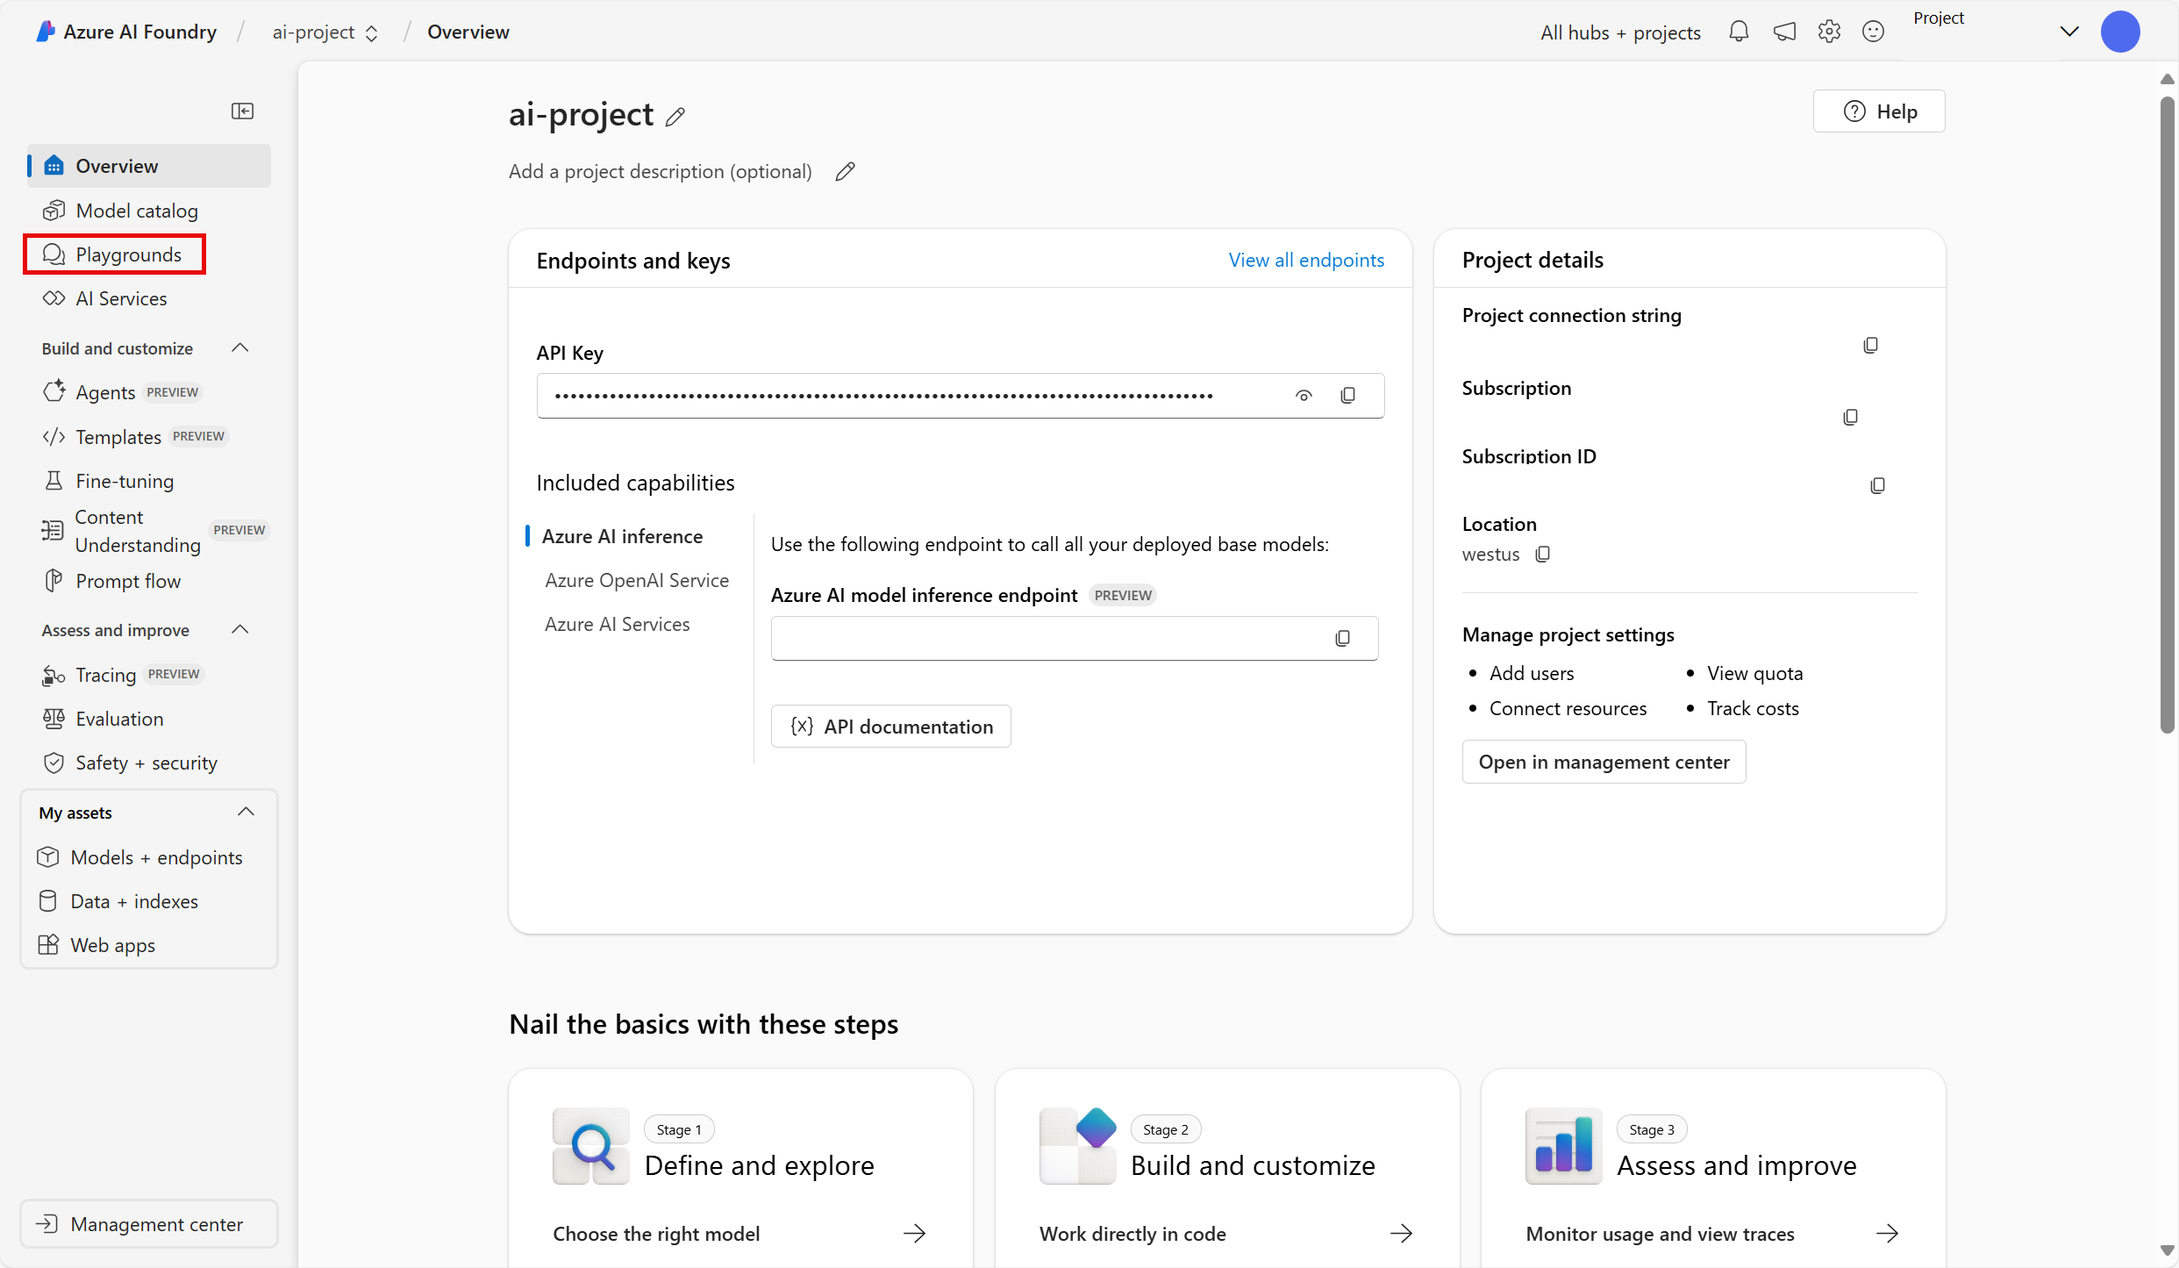
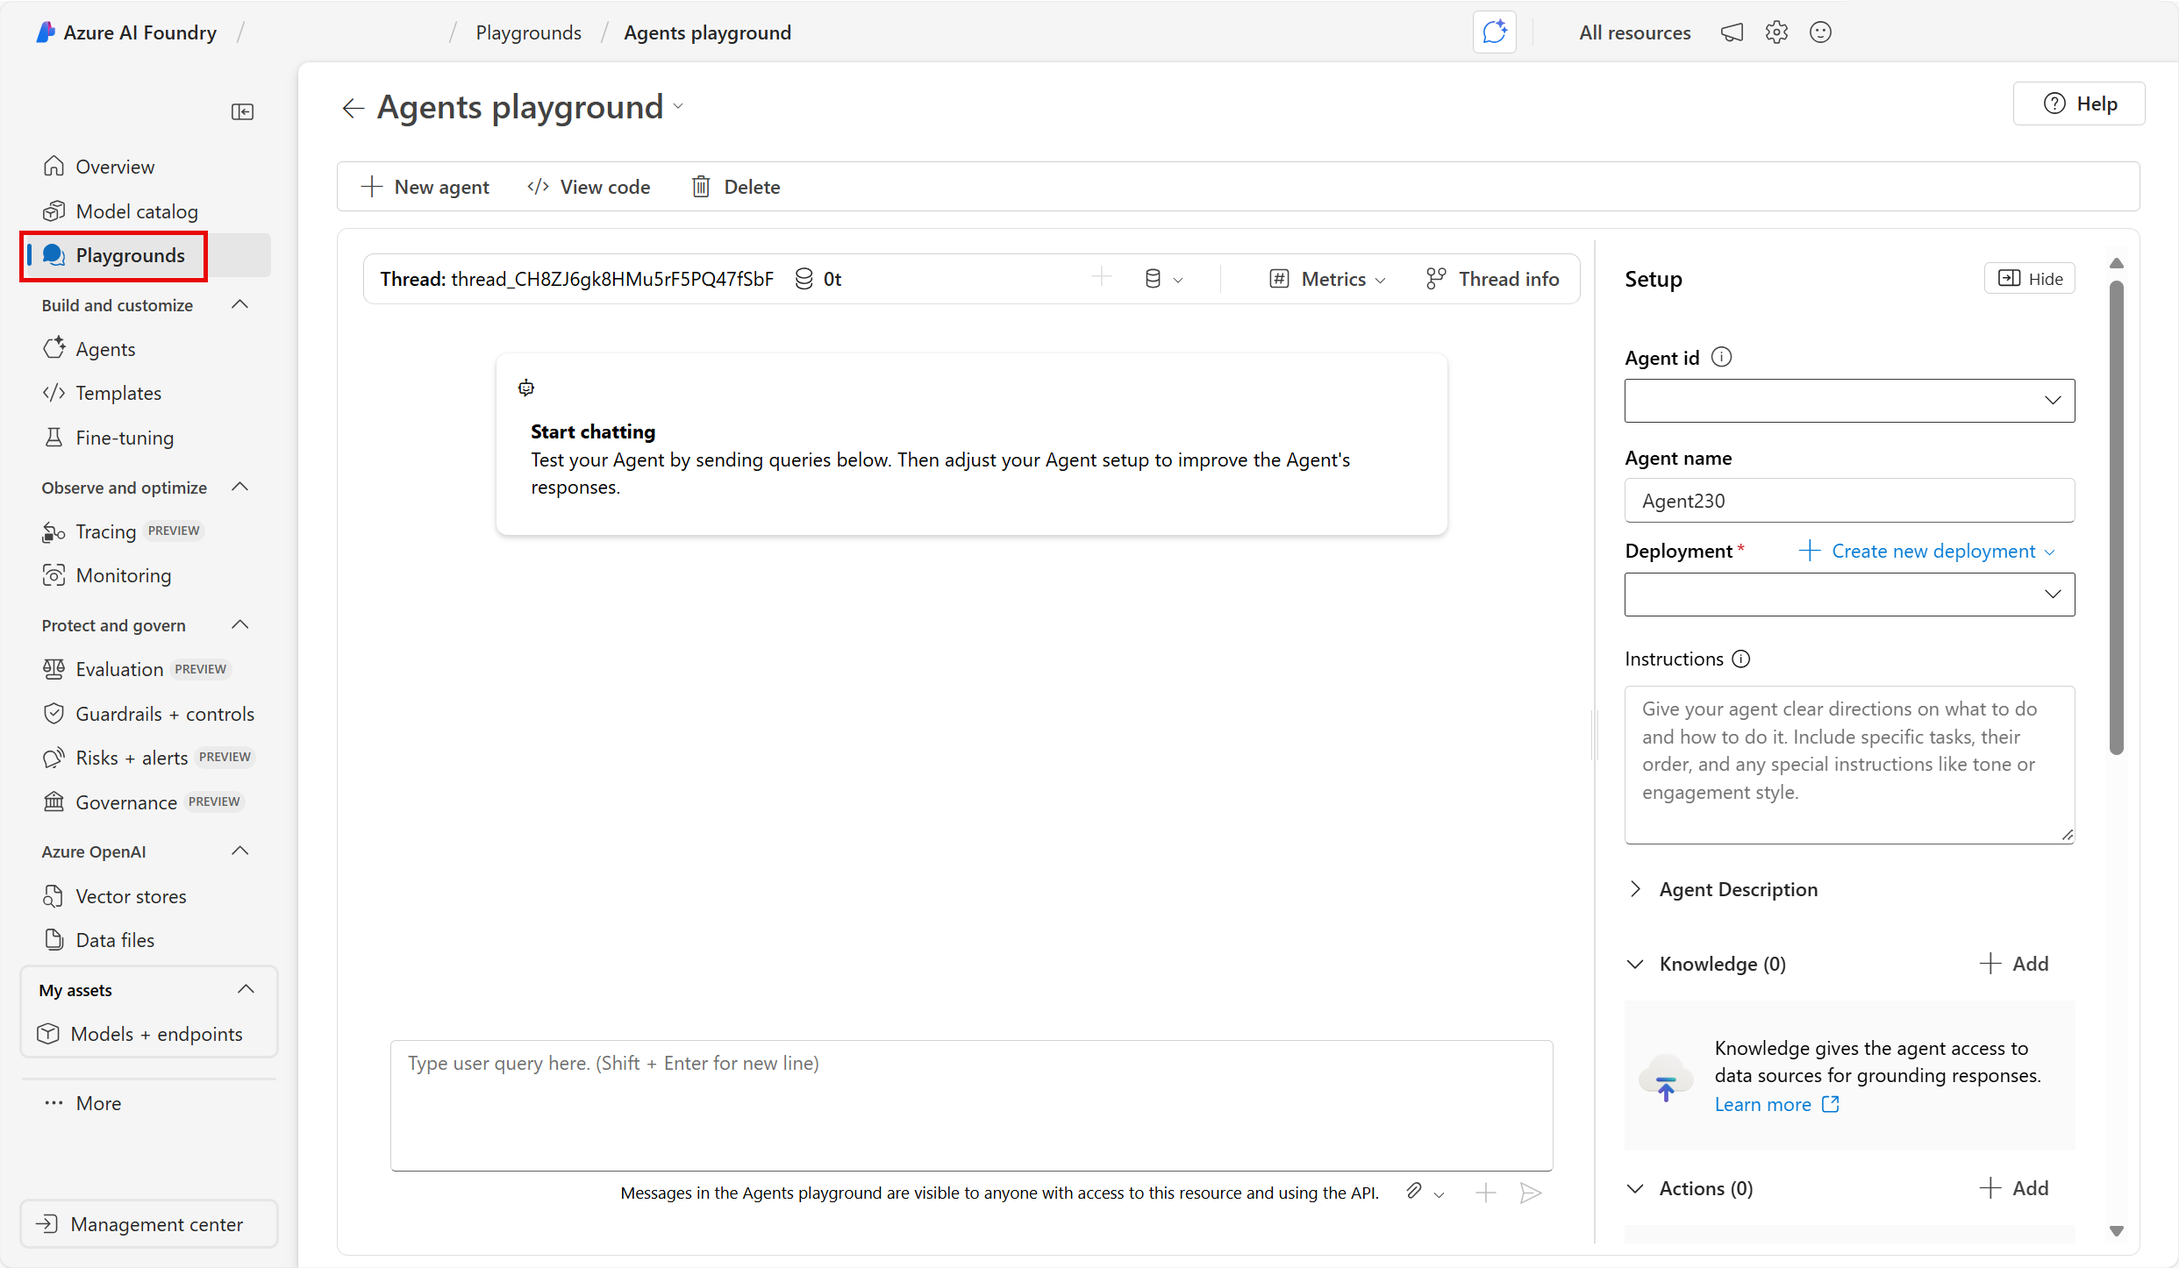
Update exercises folder to new foundry interface.

diff --git a/Instructions/Exercises/06-content-understanding.md b/Instructions/Exercises/06-content-understanding.md
@@ -11,51 +11,47 @@ In this exercise, you will use Azure AI Content Understanding in Azure AI Foundr
 
 This exercise takes approximately **25** minutes.
 
-## Create an Azure AI Foundry project
-
-Let's start by creating an Azure AI Foundry project.
+## Create an Azure AI Foundry project and content understanding task
 
 1. In a web browser, open the [Azure AI Foundry portal](https://ai.azure.com) at `https://ai.azure.com` and sign in using your Azure credentials. Close any tips or quick start panes that are opened the first time you sign in, and if necessary use the **Azure AI Foundry** logo at the top left to navigate to the home page, which looks similar to the following image (close the **Help** pane if it's open):
 
-    ![Screenshot of Azure AI Foundry home page with create a project selected.](./media/azure-ai-foundry-home-page.png)
+    ![Screenshot of Azure AI Foundry home page with create an agent selected.](./media/azure-ai-foundry-home-page.png)
 
-1. In the home page, select **+ Create project**.
+1. In a new browser window, open the [Azure AI services exploration page](https://ai.azure.com/explore/aiservices).
 
-1. In the **Create a project** wizard, enter a valid name for your project and if an existing hub is suggested, choose the option to create a new one. Then review the Azure resources that will be automatically created to support your hub and project.
+1. On the *AI Services* page, select the *Try Content Understanding* tile.
 
-1. Select **Customize** and specify the following settings for your hub:
-    - **Hub name**: *A valid name for your hub*
+1. Select **Select or create a project to start**. 
+
+1. In the home page, select **+ Create an agent**.
+
+1. In the **Create an agent** wizard, enter a valid name for your project. 
+
+1. Select **Advanced options** and specify the following settings:
+    - **Azure AI Foundry resource**: *Keep the default name*
     - **Subscription**: *Your Azure subscription*
     - **Resource group**: *Create or select a resource group*
-    - **Location**: West US 
-    - **Connect Azure AI Services or Azure OpenAI**: *Create a new AI Services resource*
-    - **Connect Azure AI Search**: Skip connecting
+    - **Region**: Select one of the following locations:
+        * West US
+        * Sweden Central
+        * Australia East
 
-1. Select **Next** and review your configuration. Then select **Create** and wait for the process to complete.
+1. Select **Create** and review your configuration. Wait for the set up process to complete.
 
-1. When your project is created, close any tips that are displayed and review the project page in Azure AI Foundry portal, which should look similar to the following image:
-
-    ![Screenshot of a Azure AI project details in Azure AI Foundry portal.](./media/ai-foundry-project.png)
- 
-1. Navigate to the left-hand menu on the screen. Then select **AI Services**.
-
-1. On the *AI Services* page, select the *Content Understanding* tile to try out Azure AI Content Understanding capabilities.
-
-## Analyze an invoice with Azure AI Content Understanding in Azure AI Foundry 
-
-Suppose you want to extract data from many invoices and put the data into a database. You can use Azure AI Content Understanding to analyze one invoice and build your own analyzer that can analyze other similar invoices. Let's start by creating a content understanding task.
-
-![Screenshot of the content understanding main page.](./media/content-understanding/content-understanding-1.png)
-
-1. Select **Custom analyzer**. 
-
-1. Select **+ Create** and use the following settings to create a content understanding task:
+1. When your project is created, you will be brought by default to the content understanding task creation window. Use the following settings to create a content understanding task:
     - **Task name**: `contoso-invoice`
     - **Description**: `An invoice analysis task`
     - **Advanced settings**: *keep the default*
 
 1. Select **Create**, then wait for your task to be created. 
+
+![Screenshot of the content understanding main page.](./media/content-understanding/content-understanding-1.png)
+
 1. Select your **contoso-invoice** task. 
+
+## Analyze an invoice with Azure AI Content Understanding in Azure AI Foundry 
+
+Suppose you want to extract data from many invoices and put the data into a database. You can use Azure AI Content Understanding to analyze one invoice and build your own analyzer that can analyze other similar invoices. Let's start by defining your schema.
 
 #### Define your schema 
 

diff --git a/Instructions/Exercises/02-generative-ai.md b/Instructions/Exercises/02-generative-ai.md
@@ -10,28 +10,26 @@ Let's start by creating an Azure AI Foundry project.
 
 1. In a web browser, open the [Azure AI Foundry portal](https://ai.azure.com) at `https://ai.azure.com` and sign in using your Azure credentials. Close any tips or quick start panes that are opened the first time you sign in, and if necessary use the **Azure AI Foundry** logo at the top left to navigate to the home page, which looks similar to the following image (close the **Help** pane if it's open):
 
-    ![Screenshot of Azure AI Foundry home page with create a project selected.](./media/azure-ai-foundry-home-page.png)
+    ![Screenshot of Azure AI Foundry home page with create an agent selected.](./media/azure-ai-foundry-home-page.png)
 
-1. In the home page, select **+ Create project**.
+1. In the home page, select **+ Create an agent**.
 
-1. In the **Create a project** wizard, enter a valid name for your project and if an existing hub is suggested, choose the option to create a new one. Then review the Azure resources that will be automatically created to support your hub and project.
+1. In the **Create an agent** wizard, enter a valid name for your project. 
 
-1. Select **Customize** and specify the following settings for your hub:
-    - **Hub name**: *A valid name for your hub*
+1. Select **Advanced options** and specify the following settings:
+    - **Azure AI Foundry resource**: *Keep the default name*
     - **Subscription**: *Your Azure subscription*
     - **Resource group**: *Create or select a resource group*
-    - **Location**: Select one of the following locations:
+    - **Region**: Select one of the following locations:
         * East US
         * France Central
         * Korea Central
         * West Europe
         * West US
-    - **Connect Azure AI Services or Azure OpenAI**: *Create a new AI Services resource*
-    - **Connect Azure AI Search**: Skip connecting
 
-1. Select **Next** and review your configuration. Then select **Create** and wait for the process to complete.
+1. Select **Create** and review your configuration. Wait for the set up process to complete.
 
-1. When your project is created, close any tips that are displayed and review the project page in Azure AI Foundry portal, which should look similar to the following image:
+1. When your project is created, you will be brought by default to the Agents playfround in Azure AI Foundry portal, which should look similar to the following image:
 
     ![Screenshot of a Azure AI project details in Azure AI Foundry portal.](./media/ai-foundry-project-2.png)
 
@@ -41,10 +39,9 @@ Let's start by creating an Azure AI Foundry project.
 
 1. In Azure AI Foundry's Playgrounds page, select **Try the Chat playground**. The Chat playground is a user interface that enables you to try out building a chat application with different generative AI models.  
 
-1. In order to use Chat playground, you need to associate it with a deployed model. In the Chat playground, select **Create a deployment**. Search for and select **gpt-4**. 
+1. In order to use Chat playground, you need to associate it with a deployed model. In the Chat playground, you should see **gpt-4o** selected. 
 
-1. In the *Deploy model* window, keep the default naming and selection and select **Deploy**. It may take a moment for the model to deploy. You can check on the status of your deployment by selecting *Models and endpoints* in left-hand menu under *My assets*.
-1. In the chat playground, you can use your deployed model when it appears in the *Deployment* selection menu. Make sure the model you deployed is selected. Importantly, you need to select **Apply changes** after you make any changes to the *Setup*. 
+1. In the chat playground, you can use your deployed model when it appears in the *Deployment* selection menu. Importantly, you need to select **Apply changes** after you make any changes to the *Setup*. 
 
 1. Consider the following ways you can improve responses from a generative AI assistant:
     - Start with a specific goal for what you want the assistant to do

diff --git a/Instructions/Exercises/04-speech.md b/Instructions/Exercises/04-speech.md
@@ -12,34 +12,32 @@ Let's start by creating an Azure AI Foundry project.
 
 1. In a web browser, open the [Azure AI Foundry portal](https://ai.azure.com) at `https://ai.azure.com` and sign in using your Azure credentials. Close any tips or quick start panes that are opened the first time you sign in, and if necessary use the **Azure AI Foundry** logo at the top left to navigate to the home page, which looks similar to the following image (close the **Help** pane if it's open):
 
-    ![Screenshot of Azure AI Foundry home page with create a project selected.](./media/azure-ai-foundry-home-page.png)
+    ![Screenshot of Azure AI Foundry home page with create an agent selected.](./media/azure-ai-foundry-home-page.png)
 
-1. In the home page, select **+ Create project**.
+1. In the home page, select **+ Create an agent**.
 
-1. In the **Create a project** wizard, enter a valid name for your project and if an existing hub is suggested, choose the option to create a new one. Then review the Azure resources that will be automatically created to support your hub and project.
+1. In the **Create an agent** wizard, enter a valid name for your project. 
 
-1. Select **Customize** and specify the following settings for your hub:
-    - **Hub name**: *A valid name for your hub*
+1. Select **Advanced options** and specify the following settings:
+    - **Azure AI Foundry resource**: *Keep the default name*
     - **Subscription**: *Your Azure subscription*
     - **Resource group**: *Create or select a resource group*
-    - **Location**: Select one of the following locations:
+    - **Region**: Select one of the following locations:
         * East US
         * France Central
         * Korea Central
         * West Europe
         * West US
-    - **Connect Azure AI Services or Azure OpenAI**: *Create a new AI Services resource*
-    - **Connect Azure AI Search**: Skip connecting
 
-1. Select **Next** and review your configuration. Then select **Create** and wait for the process to complete.
+1. Select **Create** and review your configuration. Wait for the set up process to complete.
 
-1. When your project is created, close any tips that are displayed and review the project page in Azure AI Foundry portal, which should look similar to the following image:
+1. When your project is created, you will be brought by default to the Agents playfround in Azure AI Foundry portal, which should look similar to the following image:
 
-    ![Screenshot of a Azure AI project details in Azure AI Foundry portal.](./media/ai-foundry-project.png)
+    ![Screenshot of a Azure AI project details in Azure AI Foundry portal.](./media/ai-foundry-project-2.png)
  
-1. Navigate to the left-hand menu on the screen. Then select **AI Services**.
+1. On the left-hand menu on the screen, select **Playgrounds**.
 
-1. On the *AI Services* page, select the *Speech* tile to try out Azure AI Speech capabilities.
+1. On the *Playgrounds* page, select the **Speech playground** tile to try out some Azure AI Speech capabilities.
 
 ## Explore speech to text in Azure AI Foundry's Speech Playground
 

diff --git a/Instructions/Exercises/05-image-analysis.md b/Instructions/Exercises/05-image-analysis.md
@@ -12,32 +12,30 @@ Let's start by creating an Azure AI Foundry project.
 
 1. In a web browser, open the [Azure AI Foundry portal](https://ai.azure.com) at `https://ai.azure.com` and sign in using your Azure credentials. Close any tips or quick start panes that are opened the first time you sign in, and if necessary use the **Azure AI Foundry** logo at the top left to navigate to the home page, which looks similar to the following image (close the **Help** pane if it's open):
 
-    ![Screenshot of Azure AI Foundry home page with create a project selected.](./media/azure-ai-foundry-home-page.png)
+    ![Screenshot of Azure AI Foundry home page with create an agent selected.](./media/azure-ai-foundry-home-page.png)
 
-1. In the home page, select **+ Create project**.
+1. In the home page, select **+ Create an agent**.
 
-1. In the **Create a project** wizard, enter a valid name for your project and if an existing hub is suggested, choose the option to create a new one. Then review the Azure resources that will be automatically created to support your hub and project.
+1. In the **Create an agent** wizard, enter a valid name for your project. 
 
-1. Select **Customize** and specify the following settings for your hub:
-    - **Hub name**: *A valid name for your hub*
+1. Select **Advanced options** and specify the following settings:
+    - **Azure AI Foundry resource**: *Keep the default name*
     - **Subscription**: *Your Azure subscription*
     - **Resource group**: *Create or select a resource group*
-    - **Location**: Select one of the following locations:
+    - **Region**: Select one of the following locations:
         * East US
         * France Central
         * Korea Central
         * West Europe
         * West US
-    - **Connect Azure AI Services or Azure OpenAI**: *Create a new AI Services resource*
-    - **Connect Azure AI Search**: Skip connecting
 
-1. Select **Next** and review your configuration. Then select **Create** and wait for the process to complete.
+1. Select **Create** and review your configuration. Wait for the set up process to complete.
 
-1. When your project is created, close any tips that are displayed and review the project page in Azure AI Foundry portal, which should look similar to the following image:
+1. When your project is created, you will be brought by default to the Agents playfround in Azure AI Foundry portal, which should look similar to the following image:
 
-    ![Screenshot of a Azure AI project details in Azure AI Foundry portal.](./media/ai-foundry-project.png)
+    ![Screenshot of a Azure AI project details in Azure AI Foundry portal.](./media/ai-foundry-project-2.png)
  
-1. Navigate to the left-hand menu on the screen. Then select **AI Services**.
+1. In a new browser window, open the [Azure AI services exploration page](https://ai.azure.com/explore/aiservices).
 
 1. On the *AI Services* page, select the *Vision + Document* tile to try out Azure AI Vision and Document capabilities.
 

diff --git a/Instructions/Exercises/03-text-analysis.md b/Instructions/Exercises/03-text-analysis.md
@@ -14,28 +14,26 @@ Let's start by creating an Azure AI Foundry project.
 
 1. In a web browser, open the [Azure AI Foundry portal](https://ai.azure.com) at `https://ai.azure.com` and sign in using your Azure credentials. Close any tips or quick start panes that are opened the first time you sign in, and if necessary use the **Azure AI Foundry** logo at the top left to navigate to the home page, which looks similar to the following image (close the **Help** pane if it's open):
 
-    ![Screenshot of Azure AI Foundry home page with create a project selected.](./media/azure-ai-foundry-home-page.png)
+    ![Screenshot of Azure AI Foundry home page with create an agent selected.](./media/azure-ai-foundry-home-page.png)
 
-1. In the home page, select **+ Create project**.
+1. In the home page, select **+ Create an agent**.
 
-1. In the **Create a project** wizard, enter a valid name for your project and if an existing hub is suggested, choose the option to create a new one. Then review the Azure resources that will be automatically created to support your hub and project.
+1. In the **Create an agent** wizard, enter a valid name for your project. 
 
-1. Select **Customize** and specify the following settings for your hub:
-    - **Hub name**: *A valid name for your hub*
+1. Select **Advanced options** and specify the following settings:
+    - **Azure AI Foundry resource**: *Keep the default name*
     - **Subscription**: *Your Azure subscription*
     - **Resource group**: *Create or select a resource group*
-    - **Location**: Select one of the following locations:
+    - **Region**: Select one of the following locations:
         * East US
         * France Central
         * Korea Central
         * West Europe
         * West US
-    - **Connect Azure AI Services or Azure OpenAI**: *Create a new AI Services resource*
-    - **Connect Azure AI Search**: Skip connecting
 
-1. Select **Next** and review your configuration. Then select **Create** and wait for the process to complete.
+1. Select **Create** and review your configuration. Wait for the set up process to complete.
 
-1. When your project is created, close any tips that are displayed and review the project page in Azure AI Foundry portal, which should look similar to the following image:
+1. When your project is created, you will be brought by default to the Agents playfround in Azure AI Foundry portal, which should look similar to the following image:
 
     ![Screenshot of a Azure AI project details in Azure AI Foundry portal.](./media/ai-foundry-project-2.png)
 
